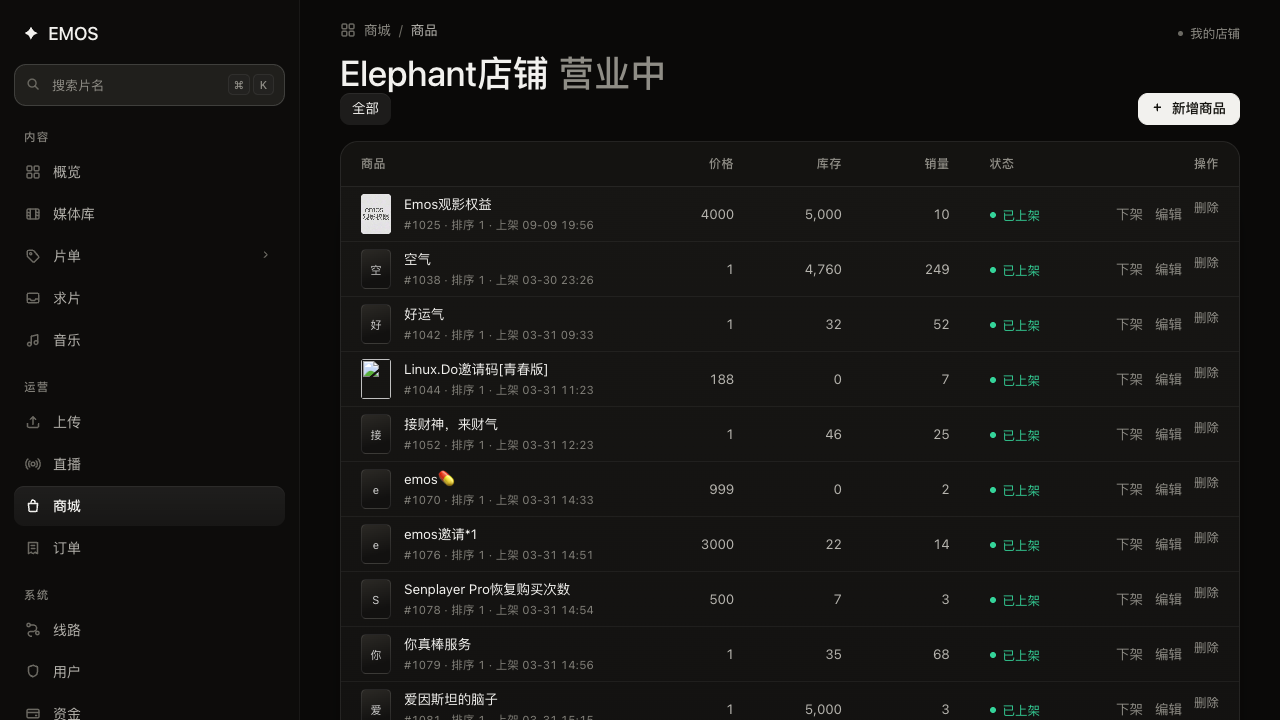
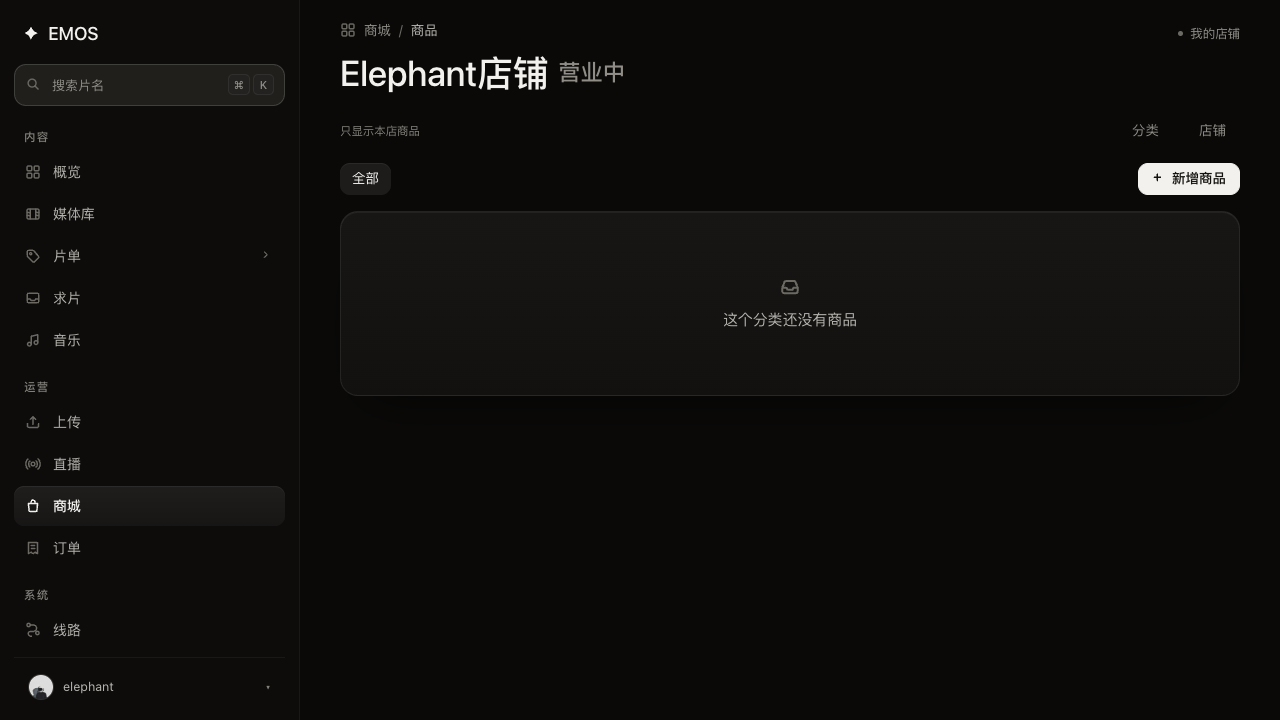
fix(shop): 商品列表补 seller_id，与分类/店铺口径统一
此前商品 tab 不传 seller_id，返回全站 120 件（别人的商品，按钮又被 is_self 藏掉），
而分类 tab 传了 seller_id 返回空 —— 同一页面两个数据源说的不是同一件事。
改为商品列表也按本店 ID 查询，空态与分类一致。

diff --git a/src/styles/components.css b/src/styles/components.css
@@ -142,16 +142,6 @@
   background: currentColor;
   box-shadow: 0 0 0 3px color-mix(in srgb, currentColor 16%, transparent);
 }
-.rail__foot {
-  margin-top: auto;
-  padding: 14px 10px 0;
-  border-top: 1px solid var(--line-soft);
-  display: flex;
-  align-items: center;
-  gap: 10px;
-  color: var(--fg-3);
-  font-size: 12.5px;
-}
 .avatar img {
   width: 100%;
   height: 100%;
@@ -805,6 +795,7 @@
 .modal-overlay--decision { background: rgba(5, 4, 3, 0.74); }
 
 .confirm {
+  animation: modal-in var(--t-enter) var(--ease);
   width: 424px;
   border-radius: var(--r-card);
   border: 1px solid var(--line);
@@ -879,11 +870,13 @@
 
 .rail__foot {
   position: relative;
-  display: block;
   flex: none;
-  padding: 12px 8px 0;
   margin-top: auto;
+  padding: 12px 8px 0;
+  border-top: 1px solid var(--line-soft);
   background: var(--panel);
+  color: var(--fg-3);
+  font-size: 12.5px;
 }
 
 .rail__account {
@@ -1085,10 +1078,6 @@
 }
 
 .modal,
-.confirm {
-  animation: modal-in var(--t-enter) var(--ease);
-}
-
 .rail__menu {
   animation: overlay-in 140ms var(--ease);
 }
@@ -1399,8 +1388,6 @@
 }
 
 .login__aside,
-.login__panel { position: relative; }
-
 .login__aside { display: grid; gap: 22px; max-width: 560px; }
 
 .login__mark {
@@ -1439,6 +1426,7 @@
 
 
 .login__panel {
+  position: relative;
   display: grid;
   gap: 16px;
   justify-items: stretch;

diff --git a/src/api/queries.ts b/src/api/queries.ts
@@ -434,10 +434,19 @@ export function useShopCategories(sellerId?: number) {
   })
 }
 
-export function useShopProducts(page: number, categoryId: number, pageSize = 12) {
+export function useShopProducts(page: number, sellerId: number, categoryId: number, pageSize = 12) {
   return useQuery({
-    queryKey: ['shop', 'products', page, categoryId] as const,
-    queryFn: () => shopApi.products({ page, page_size: pageSize, category_id: categoryId || undefined, sort_by: 'sort', sort_order: 'asc' }),
+    queryKey: ['shop', 'products', sellerId, page, categoryId] as const,
+    queryFn: () =>
+      shopApi.products({
+        seller_id: sellerId || undefined,
+        page,
+        page_size: pageSize,
+        category_id: categoryId || undefined,
+        sort_by: 'sort',
+        sort_order: 'asc',
+      }),
+    enabled: Boolean(sellerId),
     placeholderData: (prev) => prev,
   })
 }

diff --git a/src/views/ShopView.tsx b/src/views/ShopView.tsx
@@ -33,7 +33,7 @@ export function ShopView({ tab }: { tab: Tab; onTab?: (tab: Tab) => void }) {
   const categories = useShopCategories(seller.data?.seller_id)
   const [categoryId, setCategoryId] = useState(0)
   const [page, setPage] = useState(1)
-  const products = useShopProducts(page, categoryId)
+  const products = useShopProducts(page, seller.data?.seller_id ?? 0, categoryId)
   const actions = useShopMutations()
 
   const [editing, setEditing] = useState<Partial<ShopProduct> | null>(null)
